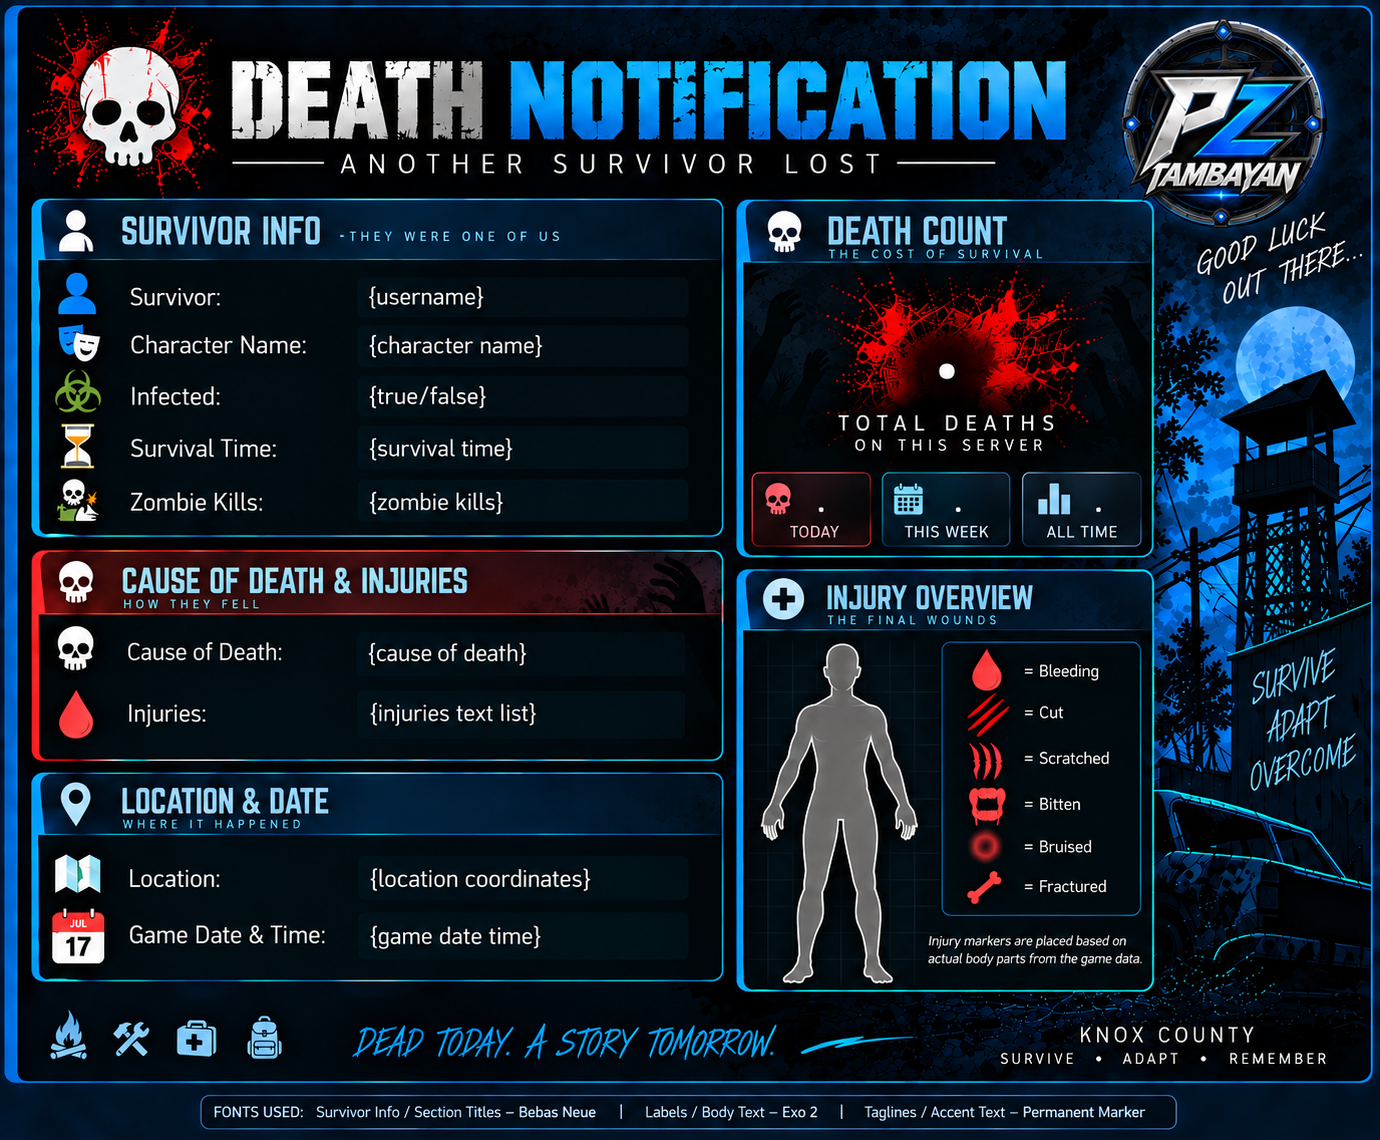
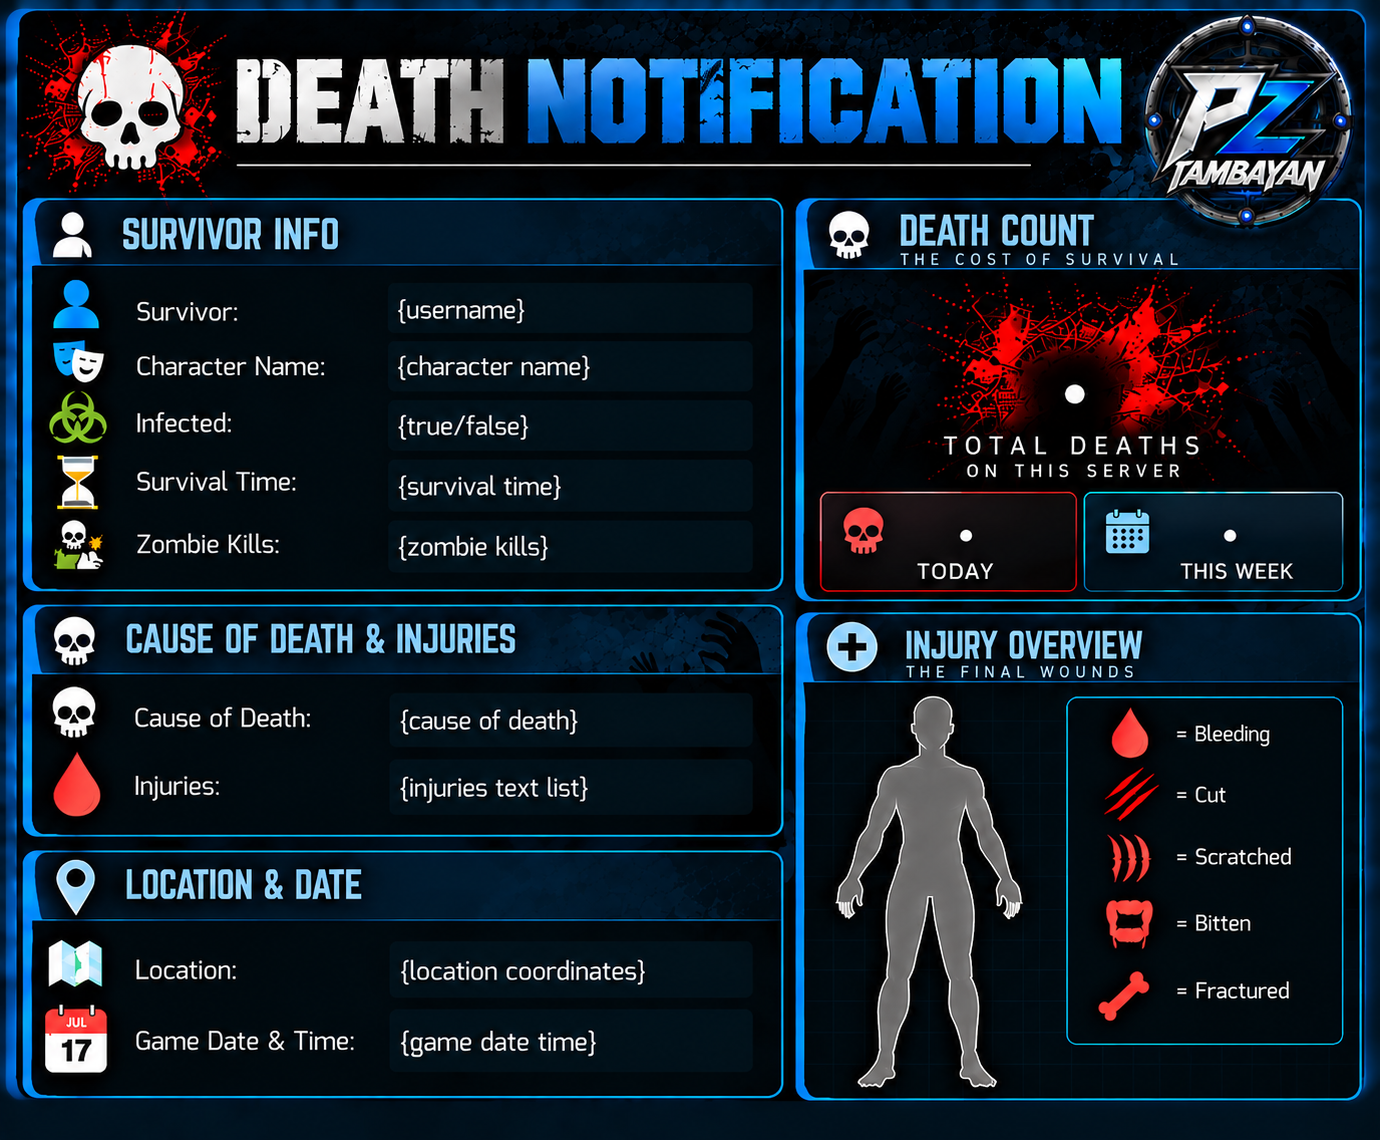
fix(death-card): remap slots/doll/legend for re-laid-out template; 2 low-key count cards
Template was re-laid out: left-column slots shifted, paper doll + 5-icon legend
(no more bruised) moved, and the death-count panel now has the big total on the
splatter plus two smaller cards (TODAY / THIS WEEK).

- Remap all 9 value slots, 16 body-part markers, and 5 legend icon crops.
- Drop the bruised icon (legend now bleeding/cut/scratched/bitten/fractured).
- Death count: draw today + this-week counts directly on the placeholder dots
  (inpaint the dot, then just the number — no background box), and keep the
  total as the big number on the splatter.

diff --git a/bot/death_card.py b/bot/death_card.py
@@ -26,62 +26,61 @@ _COUNT_TEXT = (250, 250, 250)
 
 # Value slots: field -> (x_left, y_top, max_width_px, font_size_px)
 _SLOTS = {
-    "survivor":       (369, 286, 250, 18),
-    "character_name": (369, 335, 250, 18),
-    "infected":       (369, 385, 120, 18),
-    "survival_time":  (370, 438, 250, 18),
-    "zombie_kills":   (370, 491, 180, 18),
-    "cause":          (368, 642, 280, 17),
-    "injuries":       (370, 702, 300, 15),
-    "location":       (370, 868, 300, 15),
-    "game_date_time": (370, 925, 240, 15),
+    "survivor":       (398, 298, 250, 18),
+    "character_name": (398, 355, 250, 18),
+    "infected":       (398, 414, 120, 18),
+    "survival_time":  (399, 475, 250, 18),
+    "zombie_kills":   (398, 535, 180, 18),
+    "cause":          (400, 709, 280, 17),
+    "injuries":       (400, 776, 300, 15),
+    "location":       (401, 959, 300, 15),
+    "game_date_time": (401, 1030, 240, 15),
 }
 
 # Death count: the big total number sits centred on the blood splatter; the
 # white circle placeholder is inpainted away first.
-_COUNT_CENTER = (949, 368)
-_COUNT_MAX_W = 190          # horizontal room for the big number
+_COUNT_CENTER = (1072, 393)
+_COUNT_MAX_W = 220          # horizontal room for the big number
 _COUNT_MAX_SIZE = 76        # largest font for the big number
 
-# Three stat boxes: box -> (centre_x, count_y). The count replaces the dot.
+# Two smaller death-count cards: box -> (centre_x, count_y). The count replaces
+# the placeholder dot. No background is drawn — just the number (low-key).
 _STAT_BOXES = {
-    "today":    (820, 511),
-    "week":     (957, 511),
-    "all_time": (1098, 511),
+    "today": (965, 535),
+    "week":  (1229, 535),
 }
-_STAT_SIZE = 18             # font size for the box counts
+_STAT_SIZE = 16             # font size for the box counts
 
 # Paper-doll body-part marker positions (image pixel coordinates).
 # The doll faces the reader, so the character's LEFT side is on the viewer's
 # RIGHT (higher x) and the character's RIGHT side on the viewer's LEFT.
 _BODY_PARTS: Dict[str, Tuple[int, int]] = {
-    "head":        (842, 667),
-    "neck":        (842, 699),
-    "torso_upper": (840, 760),
-    "torso_lower": (840, 820),
-    "groin":       (840, 860),
-    "upperarm_l":  (880, 745),   # character's left arm → viewer's right
-    "forearm_l":   (896, 790),
-    "hand_l":      (905, 818),
-    "upperarm_r":  (801, 745),   # character's right arm → viewer's left
-    "forearm_r":   (783, 790),
-    "hand_r":      (770, 818),
-    "leg_l":       (868, 915),
-    "foot_l":      (872, 965),
-    "leg_r":       (809, 915),
-    "foot_r":      (803, 965),
+    "head":        (932, 730),
+    "neck":        (932, 765),
+    "torso_upper": (930, 800),
+    "torso_lower": (930, 860),
+    "groin":       (930, 900),
+    "upperarm_l":  (983, 810),   # character's left arm → viewer's right
+    "forearm_l":   (1003, 860),
+    "hand_l":      (1007, 880),
+    "upperarm_r":  (875, 810),   # character's right arm → viewer's left
+    "forearm_r":   (855, 860),
+    "hand_r":      (848, 880),
+    "leg_l":       (956, 940),
+    "foot_l":      (965, 1000),
+    "leg_r":       (901, 940),
+    "foot_r":      (890, 1000),
 }
 
 # Injury icons live in the template's legend (right of the paper doll). Each
 # condition maps to one legend icon, which we crop out of the template and paste
 # onto the paper doll at the matching body part.
 _ICON_SOURCES = {
-    "bleeding":  (970, 647, 1003, 692),   # red droplet
-    "cut":       (965, 691, 1010, 738),   # 3 deep-red slanted lines
-    "scratched": (967, 741, 1004, 781),   # 3 light-red lines
-    "bitten":    (967, 786, 1007, 827),   # bite mark
-    "bruised":   (970, 830, 1000, 861),   # red circle
-    "fractured": (965, 869, 1003, 905),   # bone
+    "bleeding":  (1120, 708, 1147, 757),   # red droplet
+    "cut":       (1120, 768, 1158, 820),   # 3 deep-red slanted lines
+    "scratched": (1120, 834, 1150, 881),   # 3 light-red lines
+    "bitten":    (1120, 900, 1152, 948),   # bite mark
+    "fractured": (1120, 971, 1148, 1007),  # bone
 }
 
 # Injury condition -> legend icon key.
@@ -93,8 +92,6 @@ _CONDITION_ICONS = {
     "scratched":  "scratched",
     "cut":        "cut",
     "laceration": "cut",
-    "bruised":    "bruised",
-    "bruise":     "bruised",
     "fractured":  "fractured",
     "fracture":   "fractured",
     "broken bone": "fractured",
@@ -309,12 +306,12 @@ def _draw_centered(draw: ImageDraw.ImageDraw, center: Tuple[int, int],
 
 def _draw_stat_boxes(draw: ImageDraw.ImageDraw, img: Image.Image,
                      counts: Dict[str, int]) -> None:
-    """Replace each stat-box dot with its count number."""
+    """Replace each stat-box dot with its count number (no background)."""
     font = _font(_STAT_SIZE)
     for box, (cx, cy) in _STAT_BOXES.items():
         value = str(counts.get(box, 0) or 0)
-        # Cover the placeholder dot (and room for the number) with the panel bg.
-        draw.rectangle([cx - 45, cy - 13, cx + 45, cy + 13], fill=_BG)
+        # Inpaint the placeholder dot, then draw just the number (low-key).
+        _clear_white_text(img, (cx - 12, cy - 12, cx + 12, cy + 12))
         _draw_centered(draw, (cx, cy), value, font, _COUNT_TEXT)
 
 
@@ -350,11 +347,10 @@ def render_death_card(data: Dict) -> Image.Image:
         cfont = _fit_number(draw, count, _COUNT_MAX_W, _COUNT_MAX_SIZE)
         _draw_centered(draw, (cx, cy), count, cfont, _COUNT_TEXT)
 
-    # 3. Three stat boxes: TODAY / THIS WEEK / ALL TIME.
+    # 3. Two smaller cards: TODAY / THIS WEEK.
     _draw_stat_boxes(draw, img, {
         "today": data.get("deaths_today", 0),
         "week": data.get("deaths_week", 0),
-        "all_time": data.get("death_count", 0),
     })
 
     # 4. Injury markers on the paper doll (legend icons).
